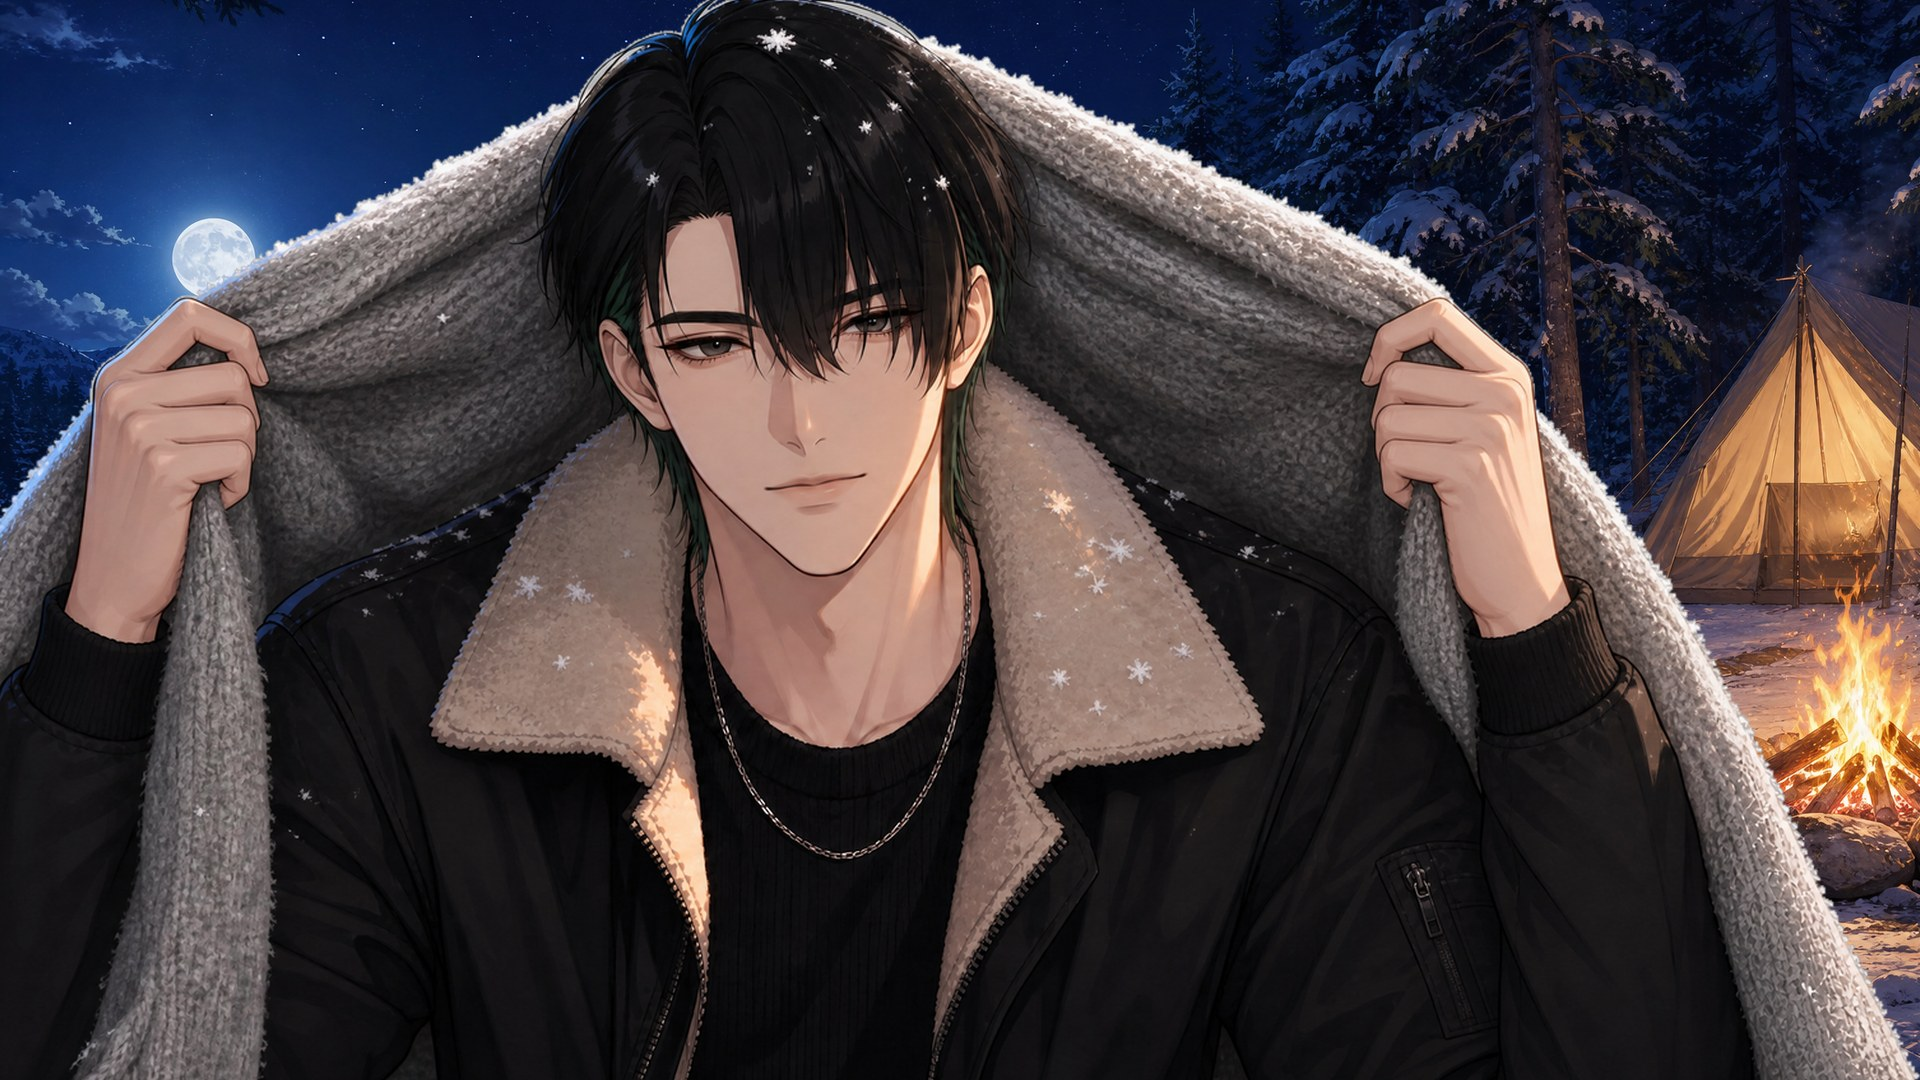
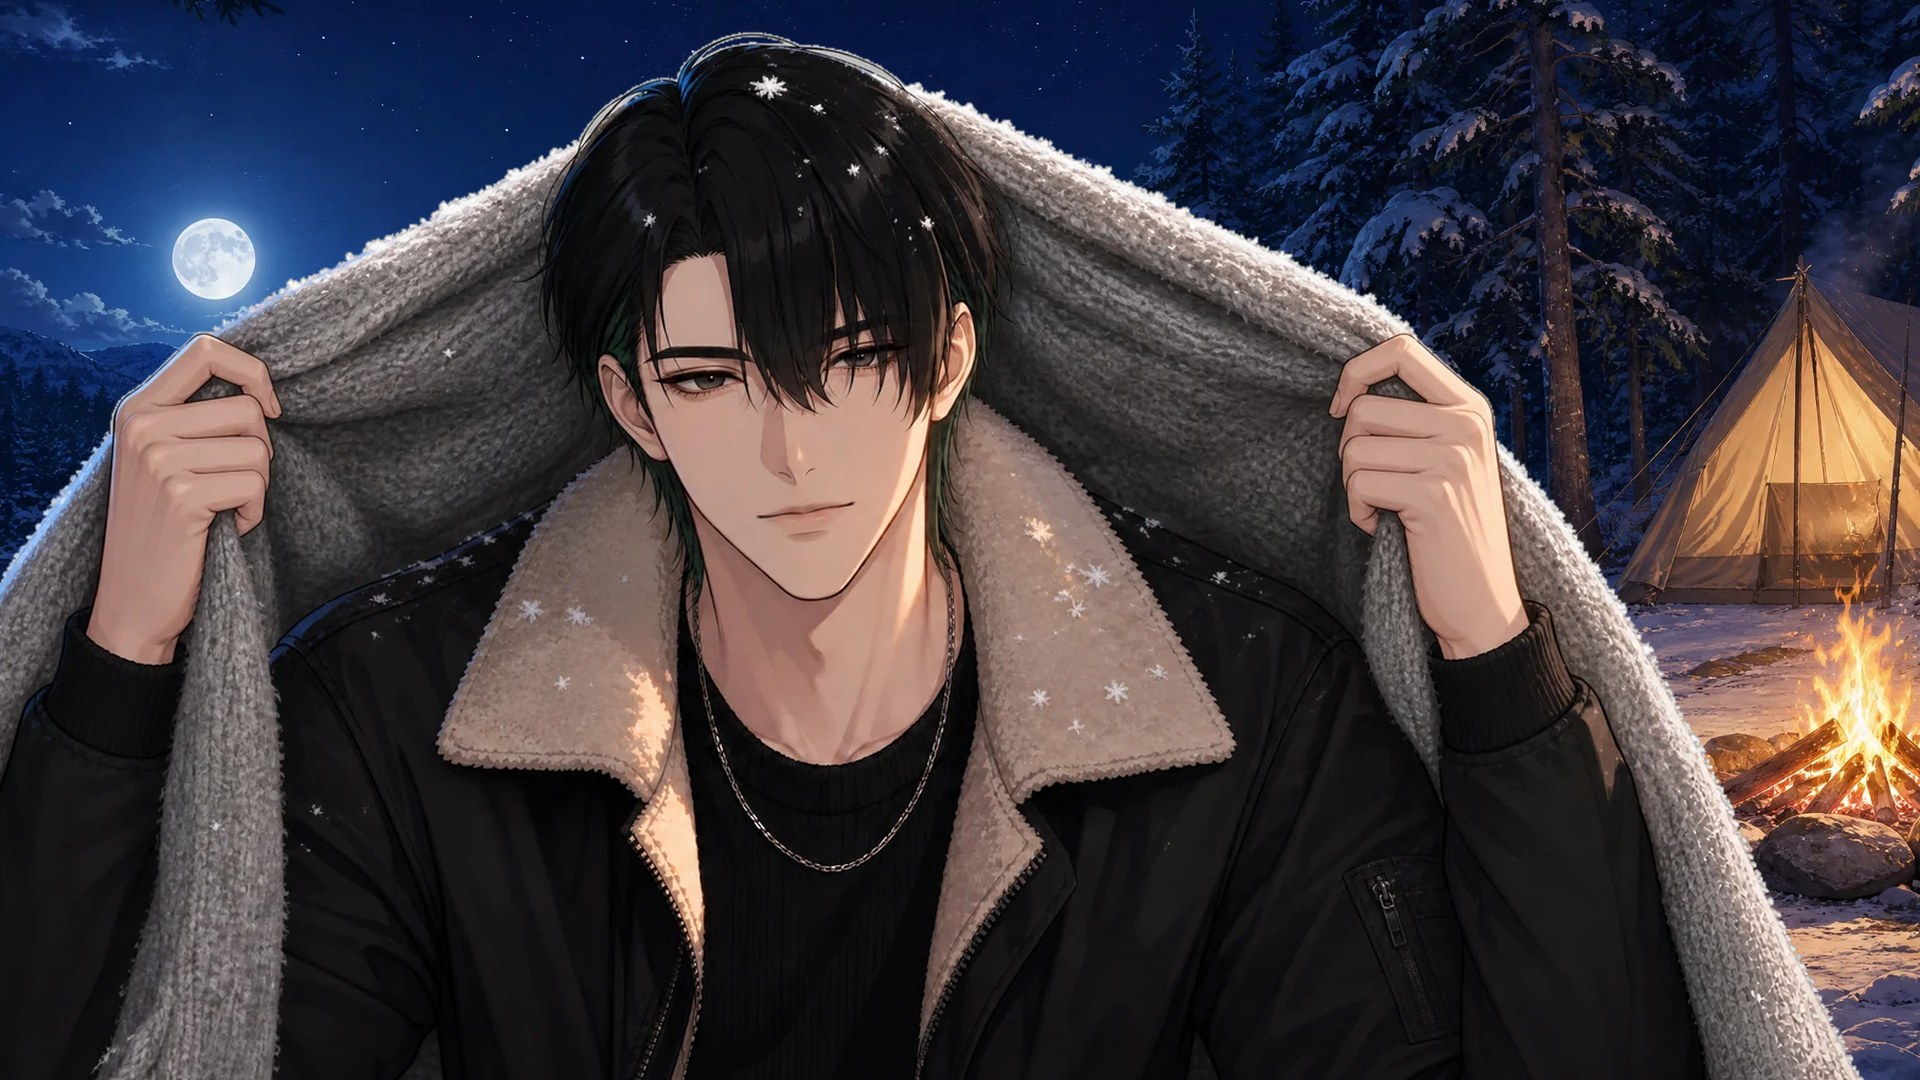
Demo24_GakuCamp: figures moved a little so complete edges sit ≥ 1 % inside / cut edges ≥ 1.5 % outside the frame (place_view.py, no rebuild)

Changed region(s): [[0.0, 0.0, 1.0, 1.0], [0.7188, 0.7944, 0.75, 0.8556]]

diff --git a/demos/for-women/Demo24_GakuCamp/media/layers.js b/demos/for-women/Demo24_GakuCamp/media/layers.js
@@ -438,9 +438,9 @@ window.MOHEAT_LAYERS = {
     "src": "art/char_blanket.webp?v=7fc0459e",
     "w": 1700,
     "h": 915,
-    "x": 0.4527,
+    "x": 0.4467,
     "y": 1.06,
-    "height": 1.08,
+    "height": 1.035,
     "box": [
      0,
      5,
